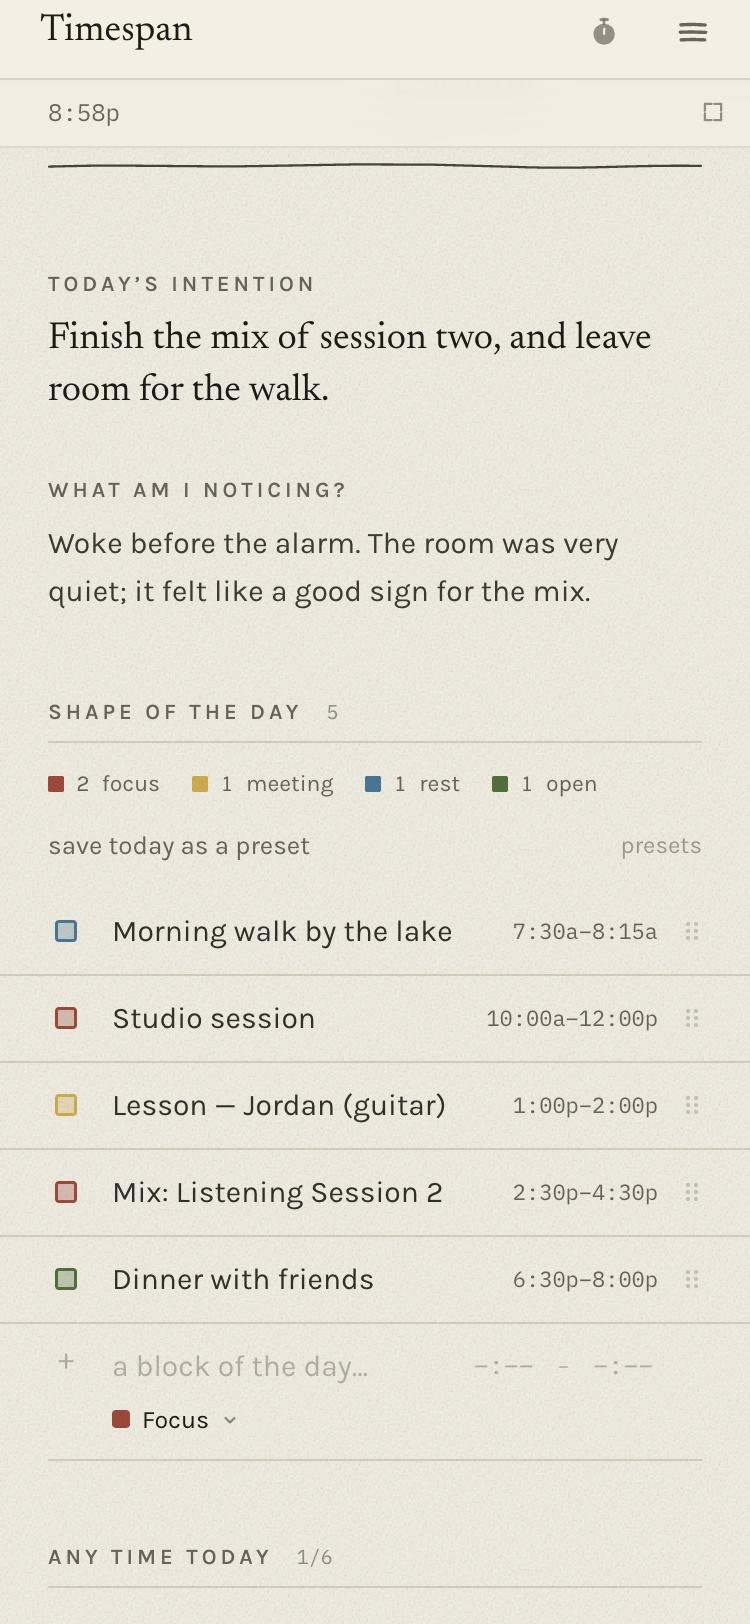
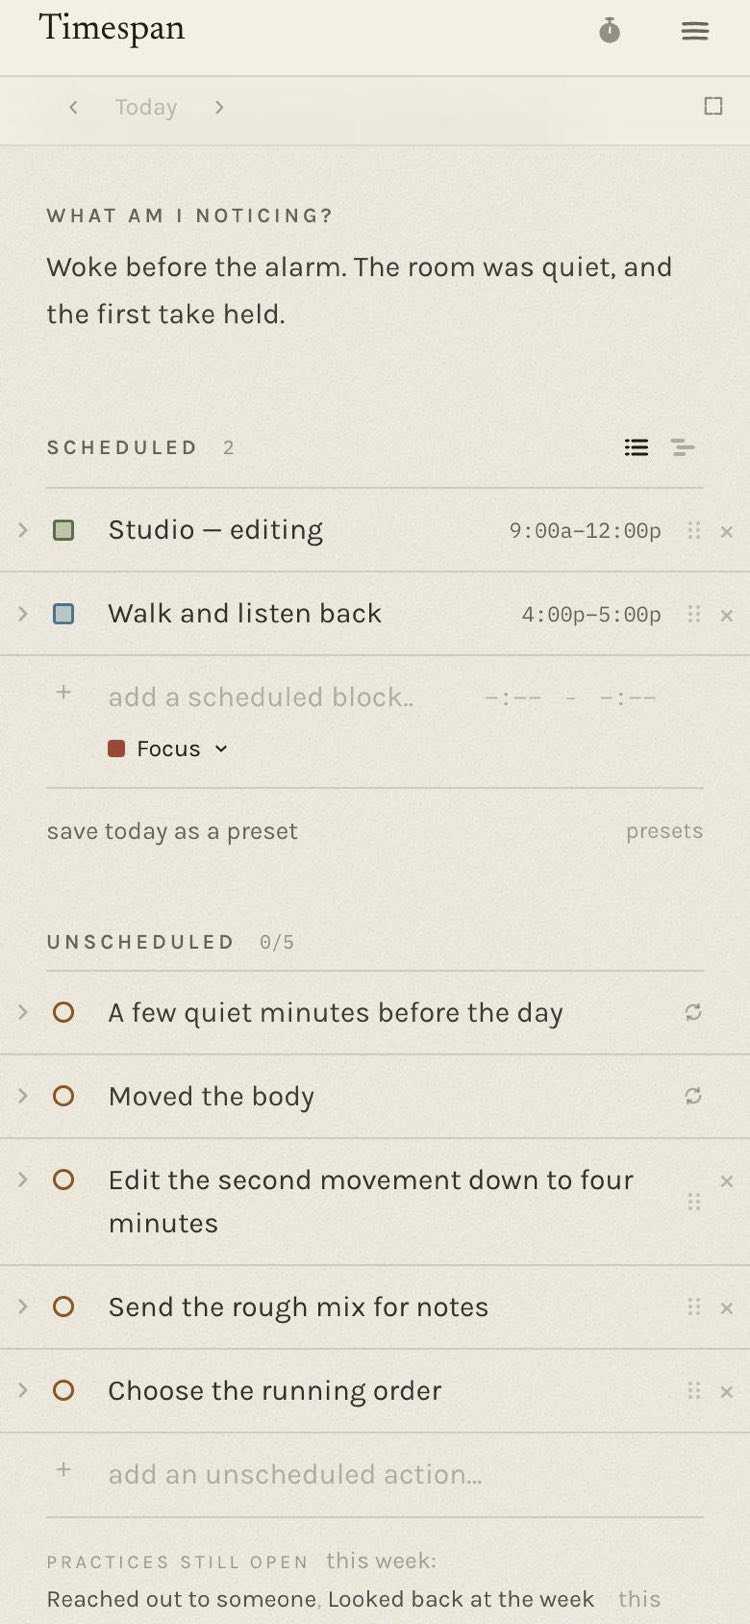
Becoming: new phone shots, taken after the mobile layout was fixed
The old pair showed the layout Stu flagged — Today, the timespans and the
focus mark thrown onto separate rows, and the weather readings running down
the page in one long column. Both are fixed in the app now, so the figures are
retaken against it: one row of chrome, the readings two across, and the day's
intention on the first screen.

The second shot now lands on Scheduled and Unscheduled, which is the feature
the insight section is about — the split that came out of rewriting a vague
label.

From a seeded demo database with invented data, as all the figures on this
page are. Same 750x1624 as the shots they replace.

diff --git a/becoming.html b/becoming.html
@@ -202,8 +202,8 @@
                 </figure>
                 <figure class="cs-figure cs-figure--pair">
                     <div class="cs-pair">
-                        <img src="images/case-study/becoming-phone-head.jpg" alt="Becoming on a phone: the date, a month calendar, and the weather dial with the day's readings stacked beside it">
-                        <img src="images/case-study/becoming-phone-day.jpg" alt="Becoming on a phone: today's intention, a line of noticing, and the shape of the day as time blocks">
+                        <img src="images/case-study/becoming-phone-head.jpg" alt="Becoming on a phone: one row holding Today and the focus mark, the zooms on the row beneath, then the date, a month calendar, and the weather dial with its readings two across beside it">
+                        <img src="images/case-study/becoming-phone-day.jpg" alt="Becoming on a phone, scrolled: a line of noticing, then Scheduled with two hours and Unscheduled with five actions beneath it">
                     </div>
                     <figcaption class="cs-cap">The same app on a phone, installed from the Home Screen — one codebase, no account, no cloud. Everything on it is stored on the device.</figcaption>
                 </figure>
